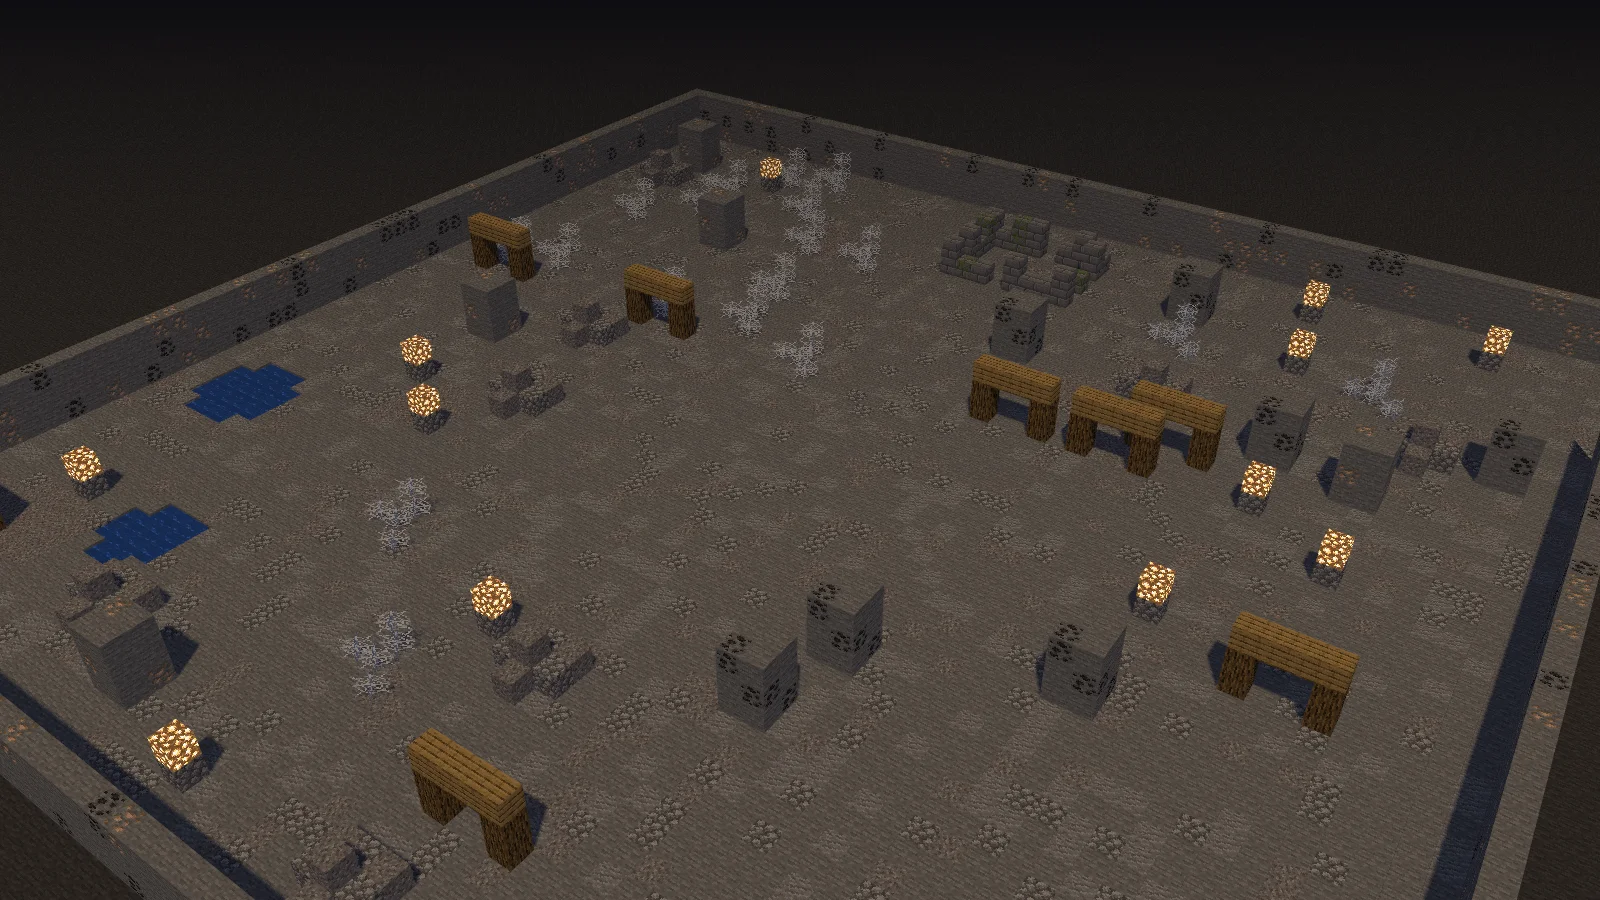
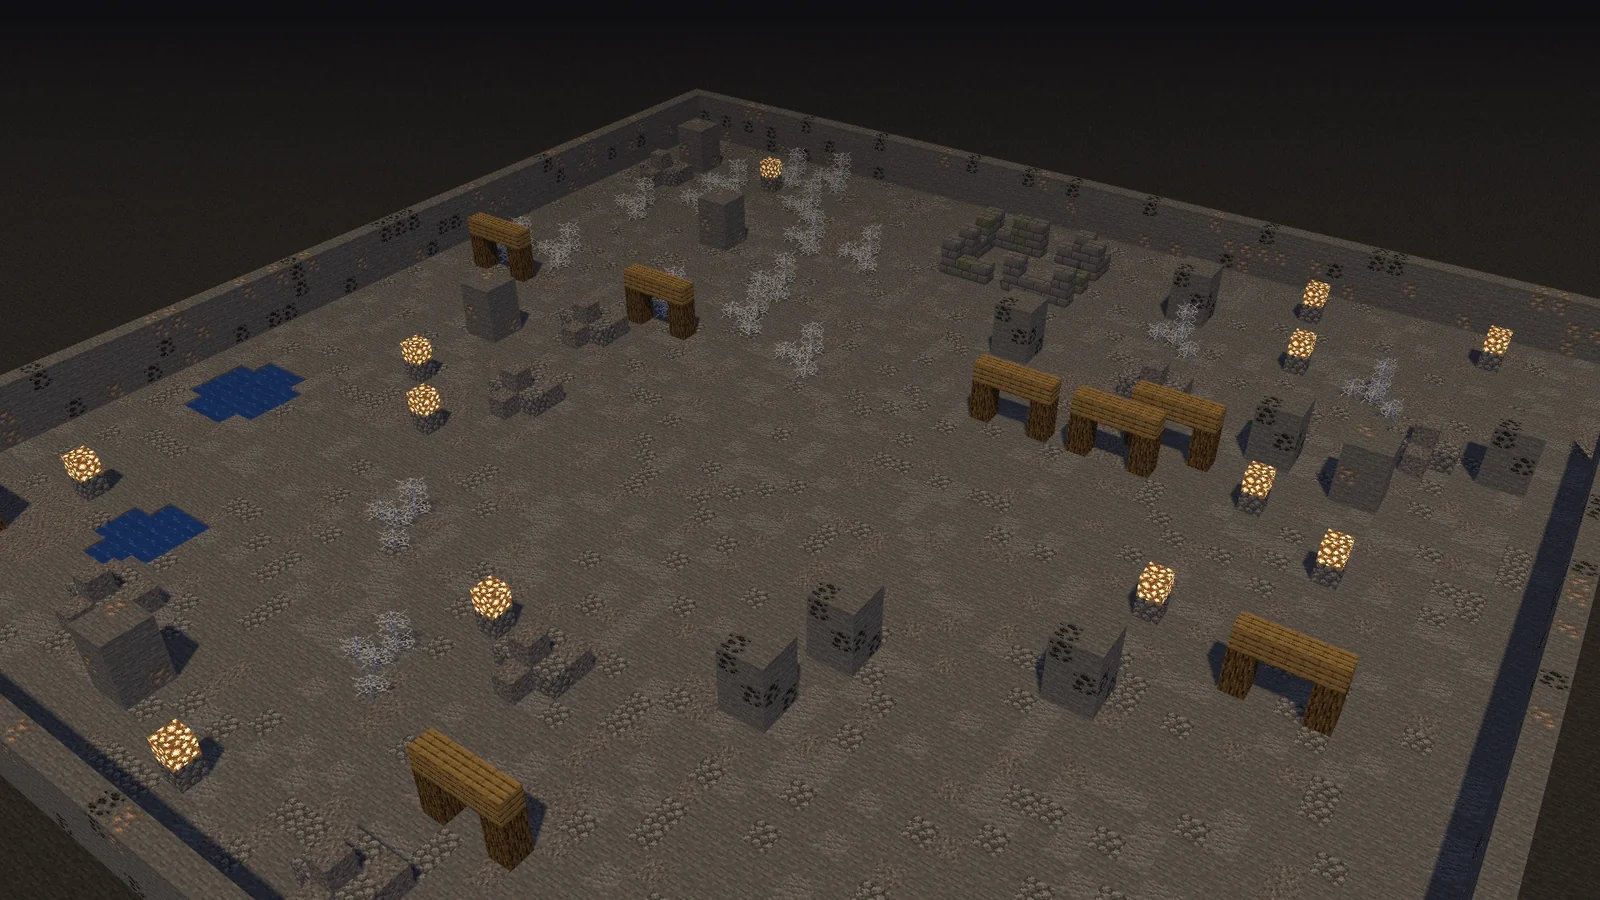
Écran de chargement dans le style du jeu : photo encadrée, barre d'XP (0.34.0)
- La photo de l'arène est creusée dans un panneau d'inventaire (panneau-mc),
  avec le nom de l'arène et l'astuce dedans.
- Barre de chargement = barre d'expérience vanilla (sprites ajoutés aux
  textures de l'interface, EcranChargement.habiller).
- Photo prise à la taille de l'écran (2560 px au plus), WebP 0.92, plus de
  zoom : nette une fois réduite dans son cadre. Photos fournies refaites
  en 1920×1080 puis ramenées à 1600 px.
- Lancement du jeu : logo et barre seulement.

Claude-Session: https://claude.ai/code/session_017VjMtHNCBooXFmCEBtqLeY

diff --git a/src/ui/styles.css b/src/ui/styles.css
@@ -191,43 +191,40 @@ img { image-rendering: pixelated; }
 .rarete-soin { color: var(--mc-or); }
 
 /* --- Écran de chargement ------------------------------------------------- */
-/* Façon WoW : la photo de l'arène en plein écran, qui avance très lentement (animation sur
-   le compositeur, fluide même quand le jeu travaille), le logo en haut, en bas le nom de
-   l'arène, une astuce et la barre */
+/* Le logo, puis (pendant le chargement d'une partie) la photo de l'arène encadrée dans un
+   panneau du jeu avec son nom et une astuce, et la barre d'expérience comme barre de chargement */
 #chargement {
   position: fixed; inset: 0; z-index: 20; overflow: hidden;
-  display: flex; flex-direction: column; align-items: center; justify-content: space-between;
-  padding: 5vh 16px 5vh;
-  background: radial-gradient(ellipse at 50% 40%, #232833 0%, #0b0d12 75%);
+  display: flex; flex-direction: column; align-items: center; justify-content: center; gap: 20px;
+  padding: 16px;
+  background: radial-gradient(ellipse at 50% 40%, #262b36 0%, #0b0d12 75%);
 }
+.chargement-titre { font-size: 40px; line-height: 48px; }
+#chargement-fenetre {
+  width: min(1040px, 88vw, calc((100vh - 300px) * 16 / 9));
+  display: flex; flex-direction: column; gap: 6px;
+  padding: 10px 12px 12px;
+}
+/* La photo, creusée dans le panneau comme une case d'inventaire */
 #chargement-image {
-  position: absolute; inset: 0; background-size: cover; background-position: center;
-  opacity: 0; transition: opacity 0.6s ease-out;
-  animation: chargement-avance 40s linear infinite alternate;
+  aspect-ratio: 16 / 9;
+  background: #1d1d1d center / cover no-repeat;
+  border: 2px solid; border-color: #373737 #ffffff #ffffff #373737;
+  opacity: 0; transition: opacity 0.4s ease-out;
 }
 #chargement-image.visible { opacity: 1; }
-@keyframes chargement-avance { from { transform: scale(1.02); } to { transform: scale(1.12); } }
-.chargement-voile {
-  position: absolute; inset: 0; pointer-events: none;
-  background:
-    linear-gradient(to top, rgba(6, 8, 12, 0.95) 0%, rgba(6, 8, 12, 0.8) 18%, rgba(6, 8, 12, 0.35) 34%, rgba(6, 8, 12, 0) 50%),
-    linear-gradient(to bottom, rgba(6, 8, 12, 0.6) 0%, rgba(6, 8, 12, 0) 22%);
-}
-.chargement-titre { position: relative; font-size: 40px; line-height: 48px; }
-.chargement-bas { position: relative; display: flex; flex-direction: column; align-items: center; gap: 8px; width: min(820px, 90vw); }
-#chargement-arene { font-size: 32px; line-height: 38px; color: #ffd75e; text-shadow: 3px 3px 0 #3f2f05; text-align: center; }
-#chargement-astuce { color: #d0d0d0; text-align: center; min-height: 20px; margin-bottom: 6px; }
-/* Barre encadrée, remplissage doré lumineux */
-.chargement-cadre {
-  width: 100%; height: 14px; padding: 2px;
-  background: rgba(0, 0, 0, 0.7); border: 2px solid #6b5a2a; box-shadow: 0 0 0 2px #000, 0 4px 12px rgba(0, 0, 0, 0.6);
+#chargement-arene { color: var(--mc-texte-panneau); font-size: 24px; line-height: 30px; text-align: center; margin-top: 4px; }
+#chargement-astuce { color: #555555; text-align: center; min-height: 18px; }
+.chargement-bas { display: flex; flex-direction: column; align-items: center; gap: 8px; }
+/* Barre d'expérience vanilla (182x5) en triple taille ; couleurs de secours sans les sprites */
+#chargement-cadre {
+  width: 546px; max-width: 86vw; height: 15px;
+  background: #2a2a2a center / 100% 100% no-repeat; image-rendering: pixelated;
 }
 #chargement-barre {
   height: 100%; width: 0; transition: width 0.15s linear;
-  background: linear-gradient(to bottom, #ffe58a, #e0a526 55%, #b87a12);
-  box-shadow: 0 0 10px rgba(255, 196, 64, 0.6);
+  background: #80ff20 left center / 546px 15px no-repeat; image-rendering: pixelated;
 }
-#chargement-texte { color: #a8a8a8; }
 #chargement.erreur #chargement-texte { color: var(--mc-rouge); }
 
 /* --- Menu principal ------------------------------------------------------- */

diff --git a/src/ui/ecranChargement.ts b/src/ui/ecranChargement.ts
@@ -1,17 +1,20 @@
 /**
- * Écran de chargement façon WoW : une photo de l'arène en plein écran (voir
- * assets/photosArenes.ts), son nom, une astuce, et la barre de progression en
- * bas. Une seule barre pour tout le chargement : planifier() annonce le
+ * Écran de chargement : le logo et la barre d'expérience du jeu ; pendant le
+ * chargement d'une partie, la photo de l'arène (voir assets/photosArenes.ts)
+ * encadrée dans un panneau du jeu, avec son nom et une astuce. Une seule barre pour tout le chargement : planifier() annonce le
  * nombre d'étapes, chacune en remplit une part égale, et la barre ne recule
  * jamais ; seul le libellé change.
  */
 import { photoArene } from '../assets/photosArenes';
+import type { BibliothequeTextures } from '../assets/textures';
+import { CONFIG } from '../config';
 import { ASTUCES } from '../donnees/astuces';
 import type { DefinitionArene } from '../donnees/types';
 import { element } from './dom';
 
 export class EcranChargement {
   private readonly racine = element('chargement');
+  private readonly fenetre = element('chargement-fenetre');
   private readonly image = element('chargement-image');
   private readonly arene = element('chargement-arene');
   private readonly astuce = element('chargement-astuce');
@@ -25,13 +28,20 @@ export class EcranChargement {
   /** Arène dont la photo est demandée (une demande plus récente l'emporte). */
   private areneVoulue = '';
 
-  /**
-   * L'arène qui se charge : sa photo en fond, et son nom (`avecNom`, faux au
-   * lancement du jeu, où l'on montre seulement la dernière arène jouée).
-   */
-  decor(arene: DefinitionArene, avecNom: boolean): void {
-    this.arene.textContent = avecNom ? arene.nom : '';
-    this.astuce.textContent = avecNom ? `Astuce : ${ASTUCES[Math.floor(Math.random() * ASTUCES.length)]}` : '';
+  /** Sprites de la barre d'expérience, une fois les textures de l'interface chargées. */
+  habiller(textures: BibliothequeTextures): void {
+    const sprites = CONFIG.hud.barreXp;
+    const fond = textures.url(sprites.fond);
+    const progression = textures.url(sprites.progression);
+    if (fond) element('chargement-cadre').style.backgroundImage = `url("${fond}")`;
+    if (progression) this.barre.style.backgroundImage = `url("${progression}")`;
+  }
+
+  /** L'arène de la partie qui se charge : sa photo encadrée, son nom et une astuce. */
+  decor(arene: DefinitionArene): void {
+    this.arene.textContent = arene.nom;
+    this.astuce.textContent = `Astuce : ${ASTUCES[Math.floor(Math.random() * ASTUCES.length)]}`;
+    this.fenetre.classList.remove('cache');
     if (arene.id === this.areneVoulue) return;
     this.areneVoulue = arene.id;
     this.image.classList.remove('visible');

diff --git a/src/main.ts b/src/main.ts
@@ -35,8 +35,8 @@ async function demarrer(): Promise<void> {
   const ecran = new EcranChargement();
   const textures = new BibliothequeTextures();
   let choix = choixDemande();
-  // Au lancement : la photo de la dernière arène jouée (son nom seulement si la partie suit)
-  ecran.decor(choix.arene, partieDemandee());
+  // Partie lancée directement (Rejouer) : la photo de son arène tout de suite
+  if (partieDemandee()) ecran.decor(choix.arene);
 
   let rendu: Rendu;
   try {
@@ -60,6 +60,7 @@ async function demarrer(): Promise<void> {
     textures.charger(texturesInterface(), (faites, total) => ecran.progression(faites, total)),
   ]);
   appliquerHabillage(textures);
+  ecran.habiller(textures);
   // Skins du joueur (éditeur, importée) : enregistrées comme des textures du jeu
   textures.enregistrer(CHEMIN_SKIN_PERSO, dessinerSkinPerso(profil.traits, profil.brasFins));
   if (profil.skinImporte) {
@@ -88,7 +89,7 @@ async function demarrer(): Promise<void> {
     memoriserChoix(choix);
     ecran.planifier(etapesPartie(choix));
   }
-  ecran.decor(choix.arene, true);
+  ecran.decor(choix.arene);
   ecran.afficher();
 
   let monde: MondeGenere;

diff --git a/src/config.ts b/src/config.ts
@@ -291,13 +291,13 @@ export const CONFIG = {
   chargement: {
     // Photo de l'arène prise à la fin du chargement, affichée au chargement suivant
     photo: {
-      largeur: 1600,     // pixels
+      largeur: 2560,     // pixels au plus (la taille de l'écran sinon) : nette une fois réduite dans son cadre
       champ: 40,         // degrés
       recul: 0.95,       // distance de la caméra, en côtés d'arène
       cadreDecor: 0.85,  // map Minecraft : part de toute la construction à garder dans le cadre
       plongeeDeg: 34,    // sous l'horizontale
       azimutDeg: 35,     // depuis le sud, vers l'est
-      qualite: 0.85,     // compression WebP
+      qualite: 0.92,     // compression WebP
     },
   },
 

diff --git a/index.html b/index.html
@@ -9,14 +9,15 @@
 
   <!-- Écran de chargement -->
   <div id="chargement">
-    <div id="chargement-image"></div>
-    <div class="chargement-voile"></div>
     <div class="chargement-titre logo">Block Survivors</div>
-    <div class="chargement-bas">
+    <div id="chargement-fenetre" class="panneau-mc cache">
+      <div id="chargement-image"></div>
       <div id="chargement-arene"></div>
       <div id="chargement-astuce"></div>
-      <div class="chargement-cadre"><div id="chargement-barre"></div></div>
+    </div>
+    <div class="chargement-bas">
       <div id="chargement-texte">Chargement…</div>
+      <div id="chargement-cadre"><div id="chargement-barre"></div></div>
     </div>
   </div>
 

diff --git a/src/assets/manifeste.ts b/src/assets/manifeste.ts
@@ -31,6 +31,8 @@ export function texturesInterface(): Set<CheminTexture> {
   for (const id of IDS_ARMES) chemins.add(ARMES[id].icone);
   for (const arene of ARENES) chemins.add(arene.icone);
   chemins.add(CONFIG.hud.coeurs.plein).add(CONFIG.hud.coeurs.dore);
+  // Barre d'expérience : aussi la barre de l'écran de chargement
+  chemins.add(CONFIG.hud.barreXp.fond).add(CONFIG.hud.barreXp.progression);
   chemins.add(RECOMPENSES.icone);
   for (const nom of SKINS_VANILLA) chemins.add(cheminSkinVanilla(nom, false)).add(cheminSkinVanilla(nom, true));
   for (const id of IDS_PERSONNAGES) {

diff --git a/CHANGELOG.md b/CHANGELOG.md
@@ -5,6 +5,15 @@ Le lien « dernière version » pointe toujours sur la plus récente.
 
 Règle des numéros : `0.x.0` pour des nouveautés, `0.x.y` pour des corrections.
 
+## [0.34.0] — 2026-10-21
+
+### Changements
+- **Écran de chargement dans le style du jeu** :
+  - la photo de l'arène est encadrée dans un panneau d'inventaire de Minecraft, avec le nom de l'arène et l'astuce dessous ;
+  - la barre de chargement est la barre d'expérience du jeu.
+- **Photo nette** : prise à la pleine résolution de l'écran, sans zoom, et affichée plus petite dans son cadre.
+- **Au lancement du jeu**, seulement le logo et la barre : la photo n'apparaît qu'au chargement d'une partie.
+
 ## [0.33.0] — 2026-10-21
 
 ### Changements
